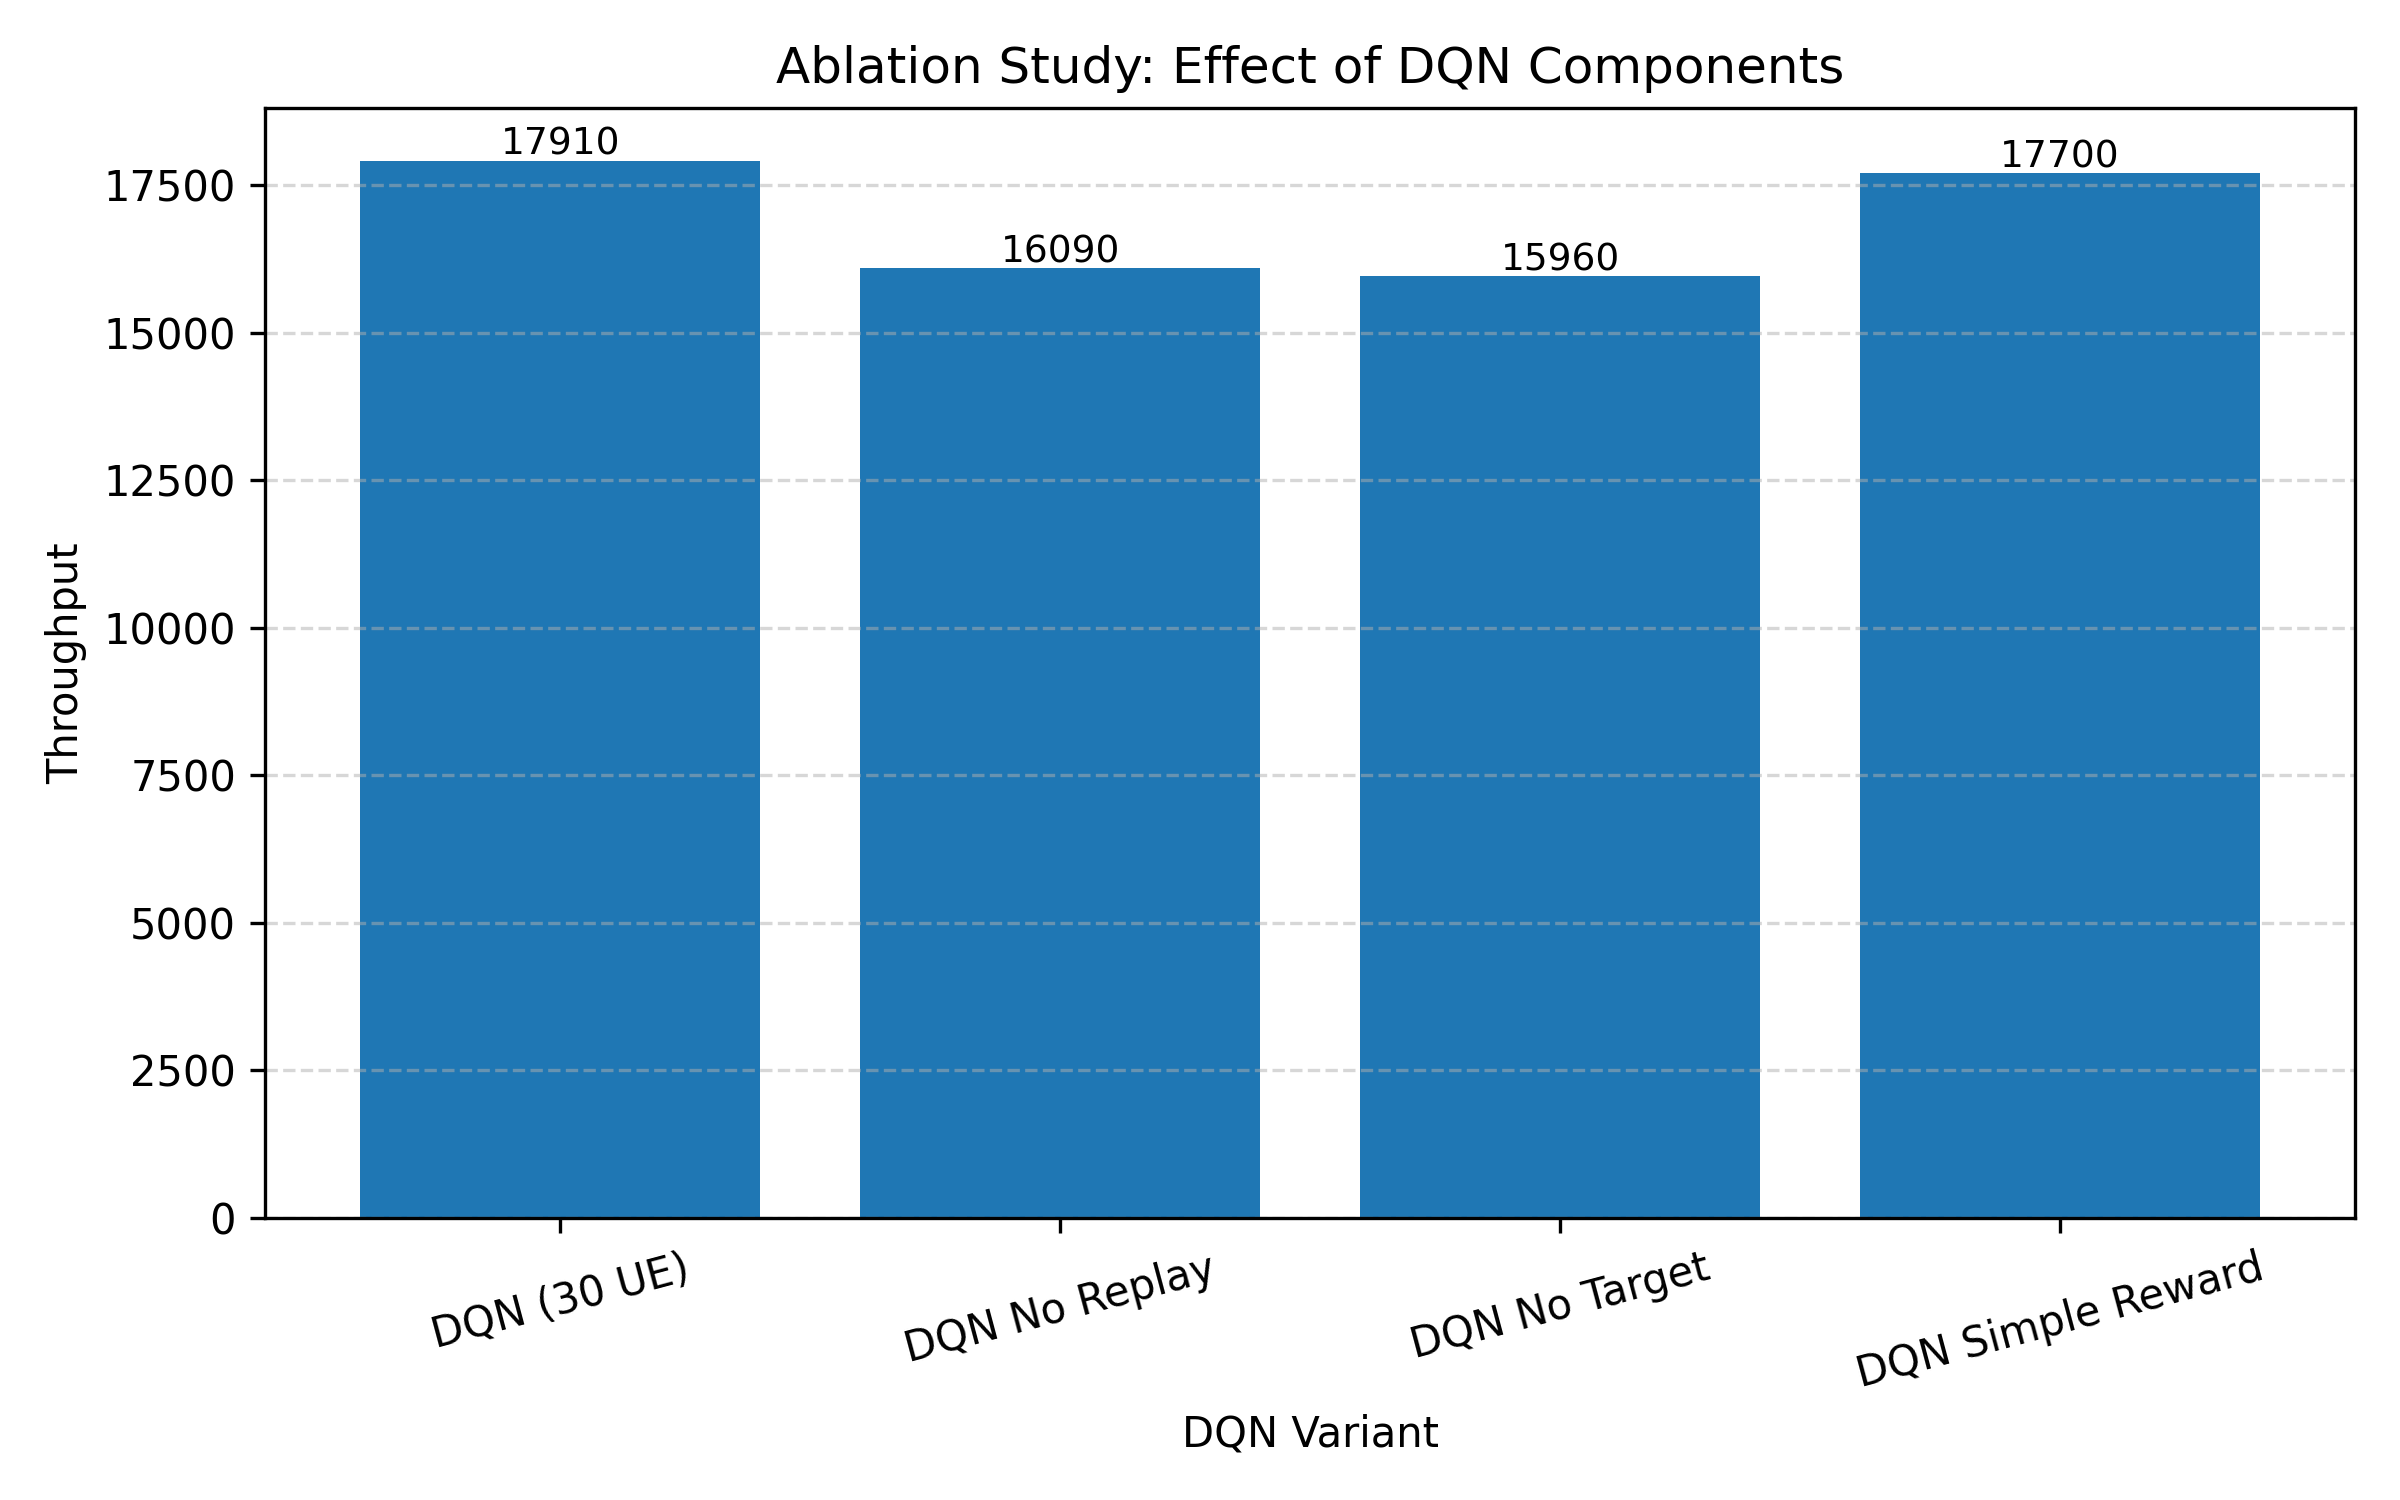
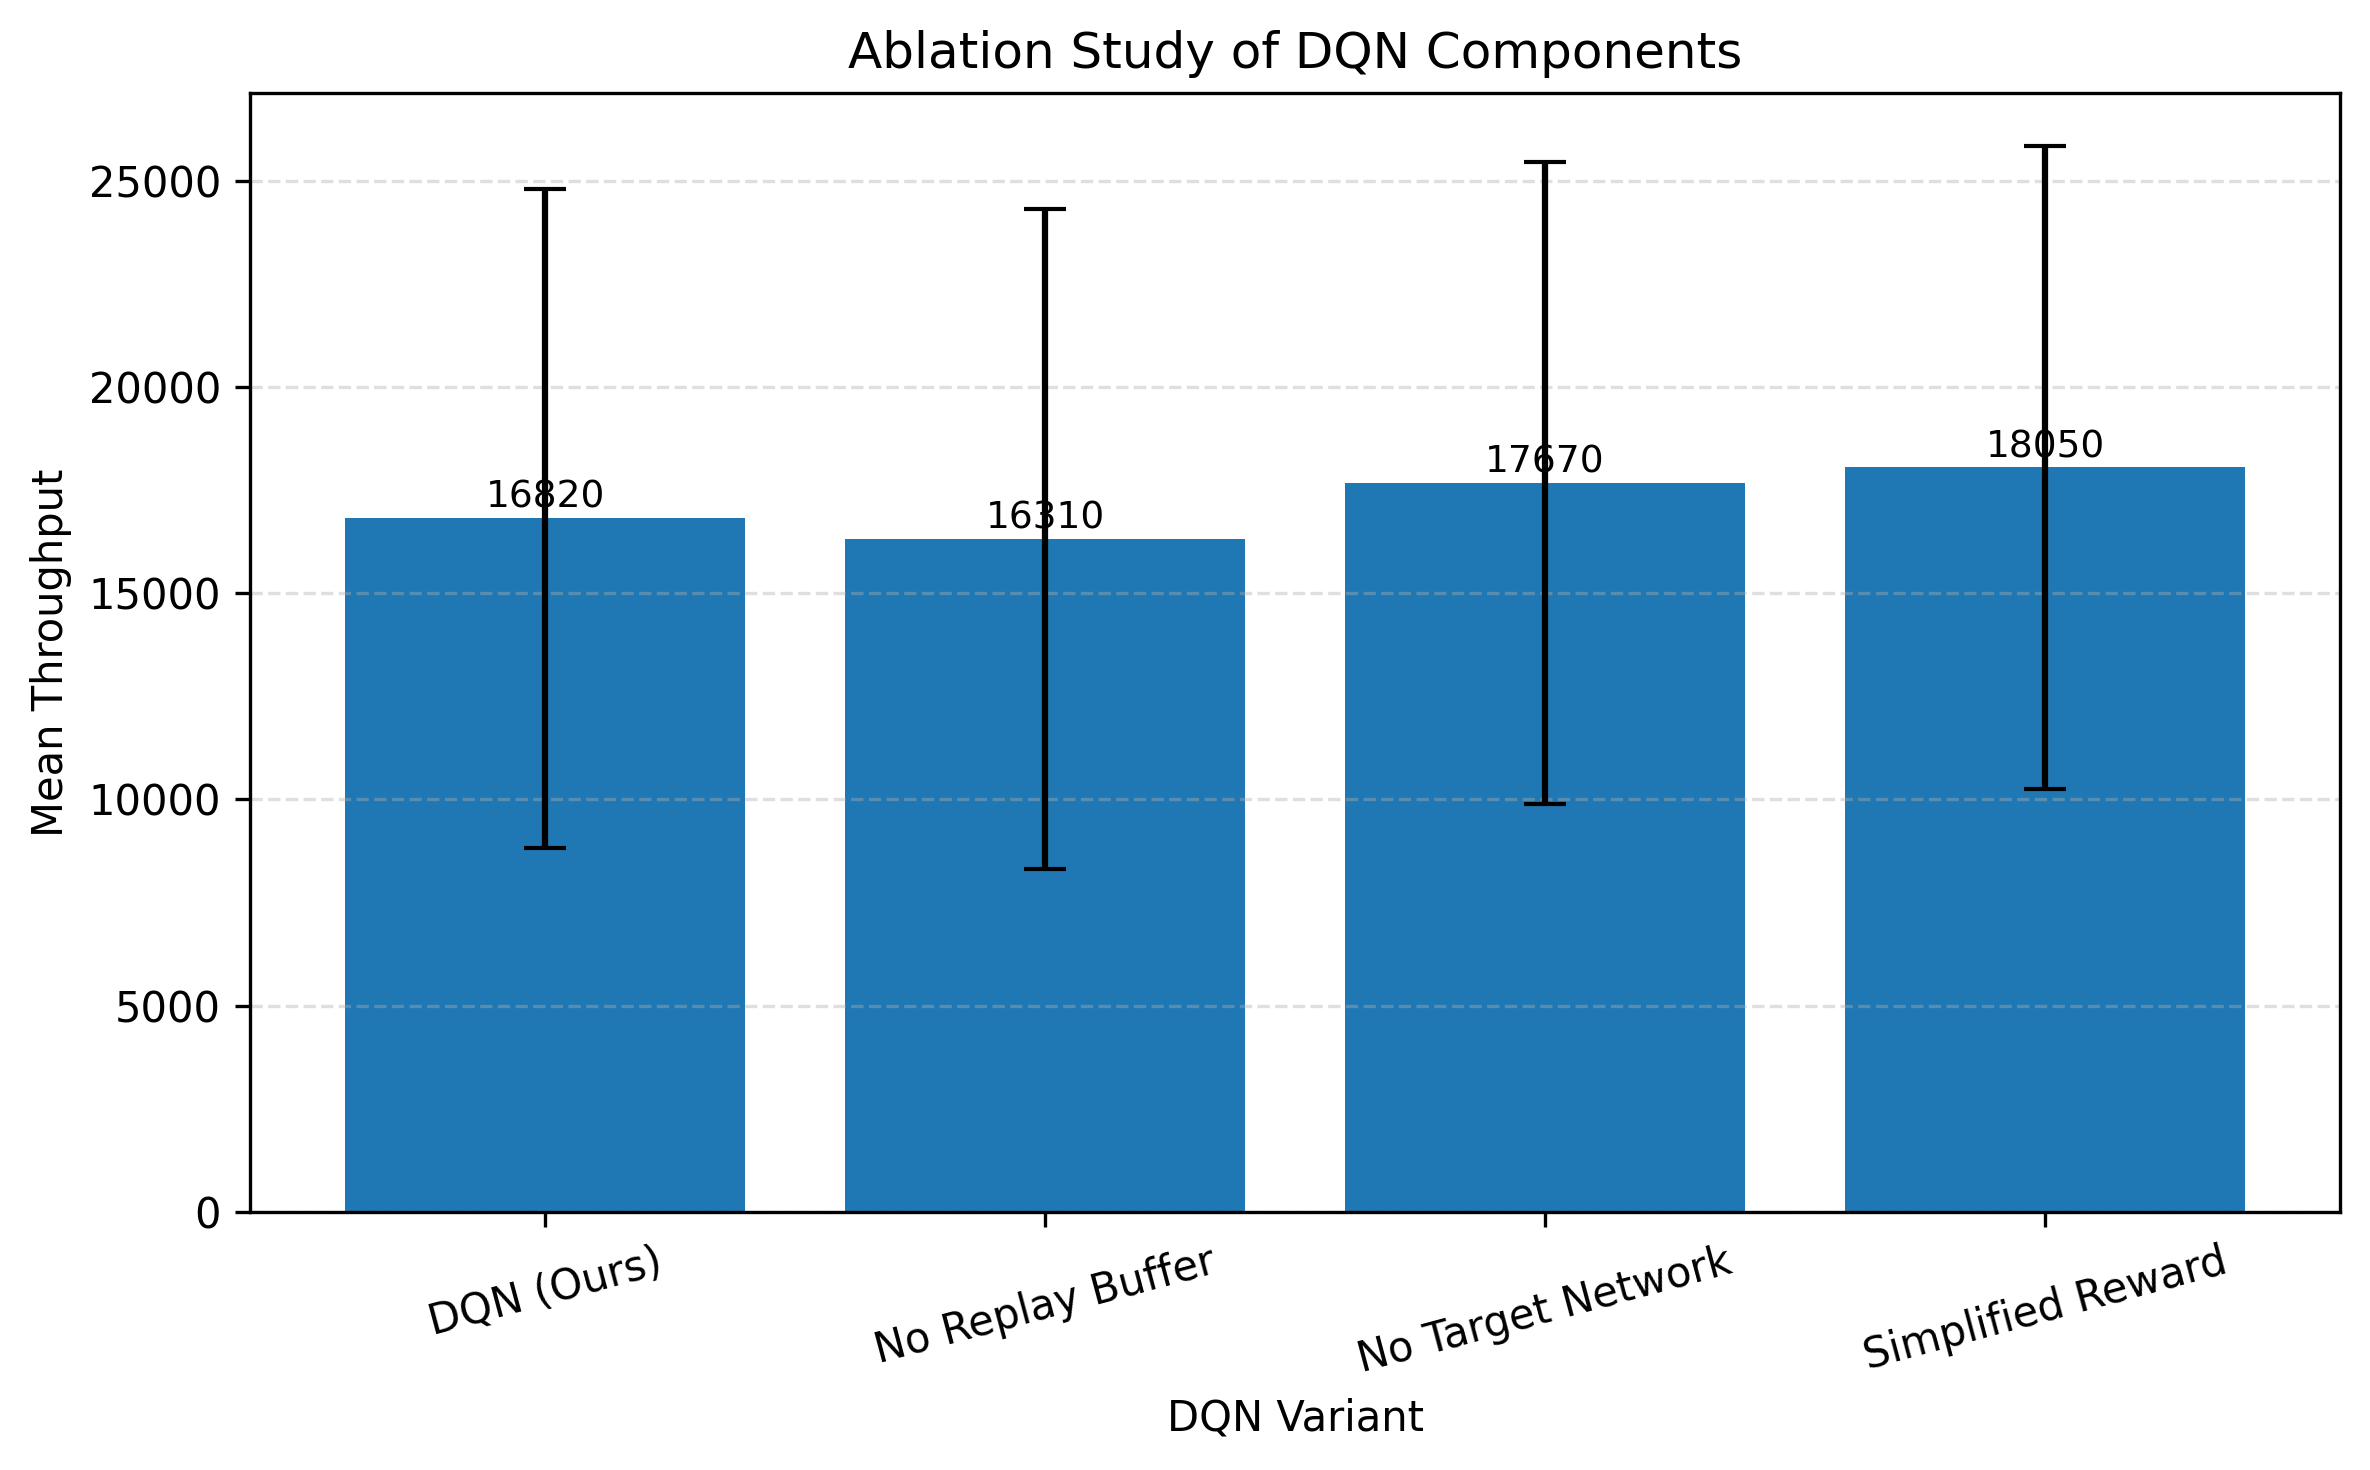
Ablation Study

diff --git a/week6/plot_ablation.py b/week6/plot_ablation.py
@@ -1,40 +1,28 @@
 import pandas as pd
 import matplotlib.pyplot as plt
 
-# Load ablation results
 df = pd.read_csv("results/week5_ablation_study.csv")
 
-# Plot
-plt.figure(figsize=(8, 5), dpi=300)
+plt.figure(figsize=(8,5), dpi=300)
 
 plt.bar(
-    df["Configuration"],
-    df["Throughput"]
+    df["Variant"],
+    df["Throughput Mean"],
+    yerr=df["Throughput Std"],
+    capsize=5
 )
 
 plt.xlabel("DQN Variant")
-plt.ylabel("Throughput")
-plt.title("Ablation Study: Effect of DQN Components")
+plt.ylabel("Mean Throughput")
+plt.title("Ablation Study of DQN Components")
 
 plt.xticks(rotation=15)
 
-# Value labels
-for i, value in enumerate(df["Throughput"]):
-    plt.text(
-        i,
-        value + 100,
-        f"{value:.0f}",
-        ha="center",
-        fontsize=9
-    )
+for i, value in enumerate(df["Throughput Mean"]):
+    plt.text(i, value + 250, f"{value:.0f}", ha="center", fontsize=9)
 
-plt.grid(axis="y", linestyle="--", alpha=0.5)
+plt.grid(axis="y", linestyle="--", alpha=0.4)
 
 plt.tight_layout()
-
-plt.savefig(
-    "results/ablation_bar.png",
-    dpi=300
-)
-
+plt.savefig("results/ablation_bar.png", dpi=300, bbox_inches="tight")
 plt.show()